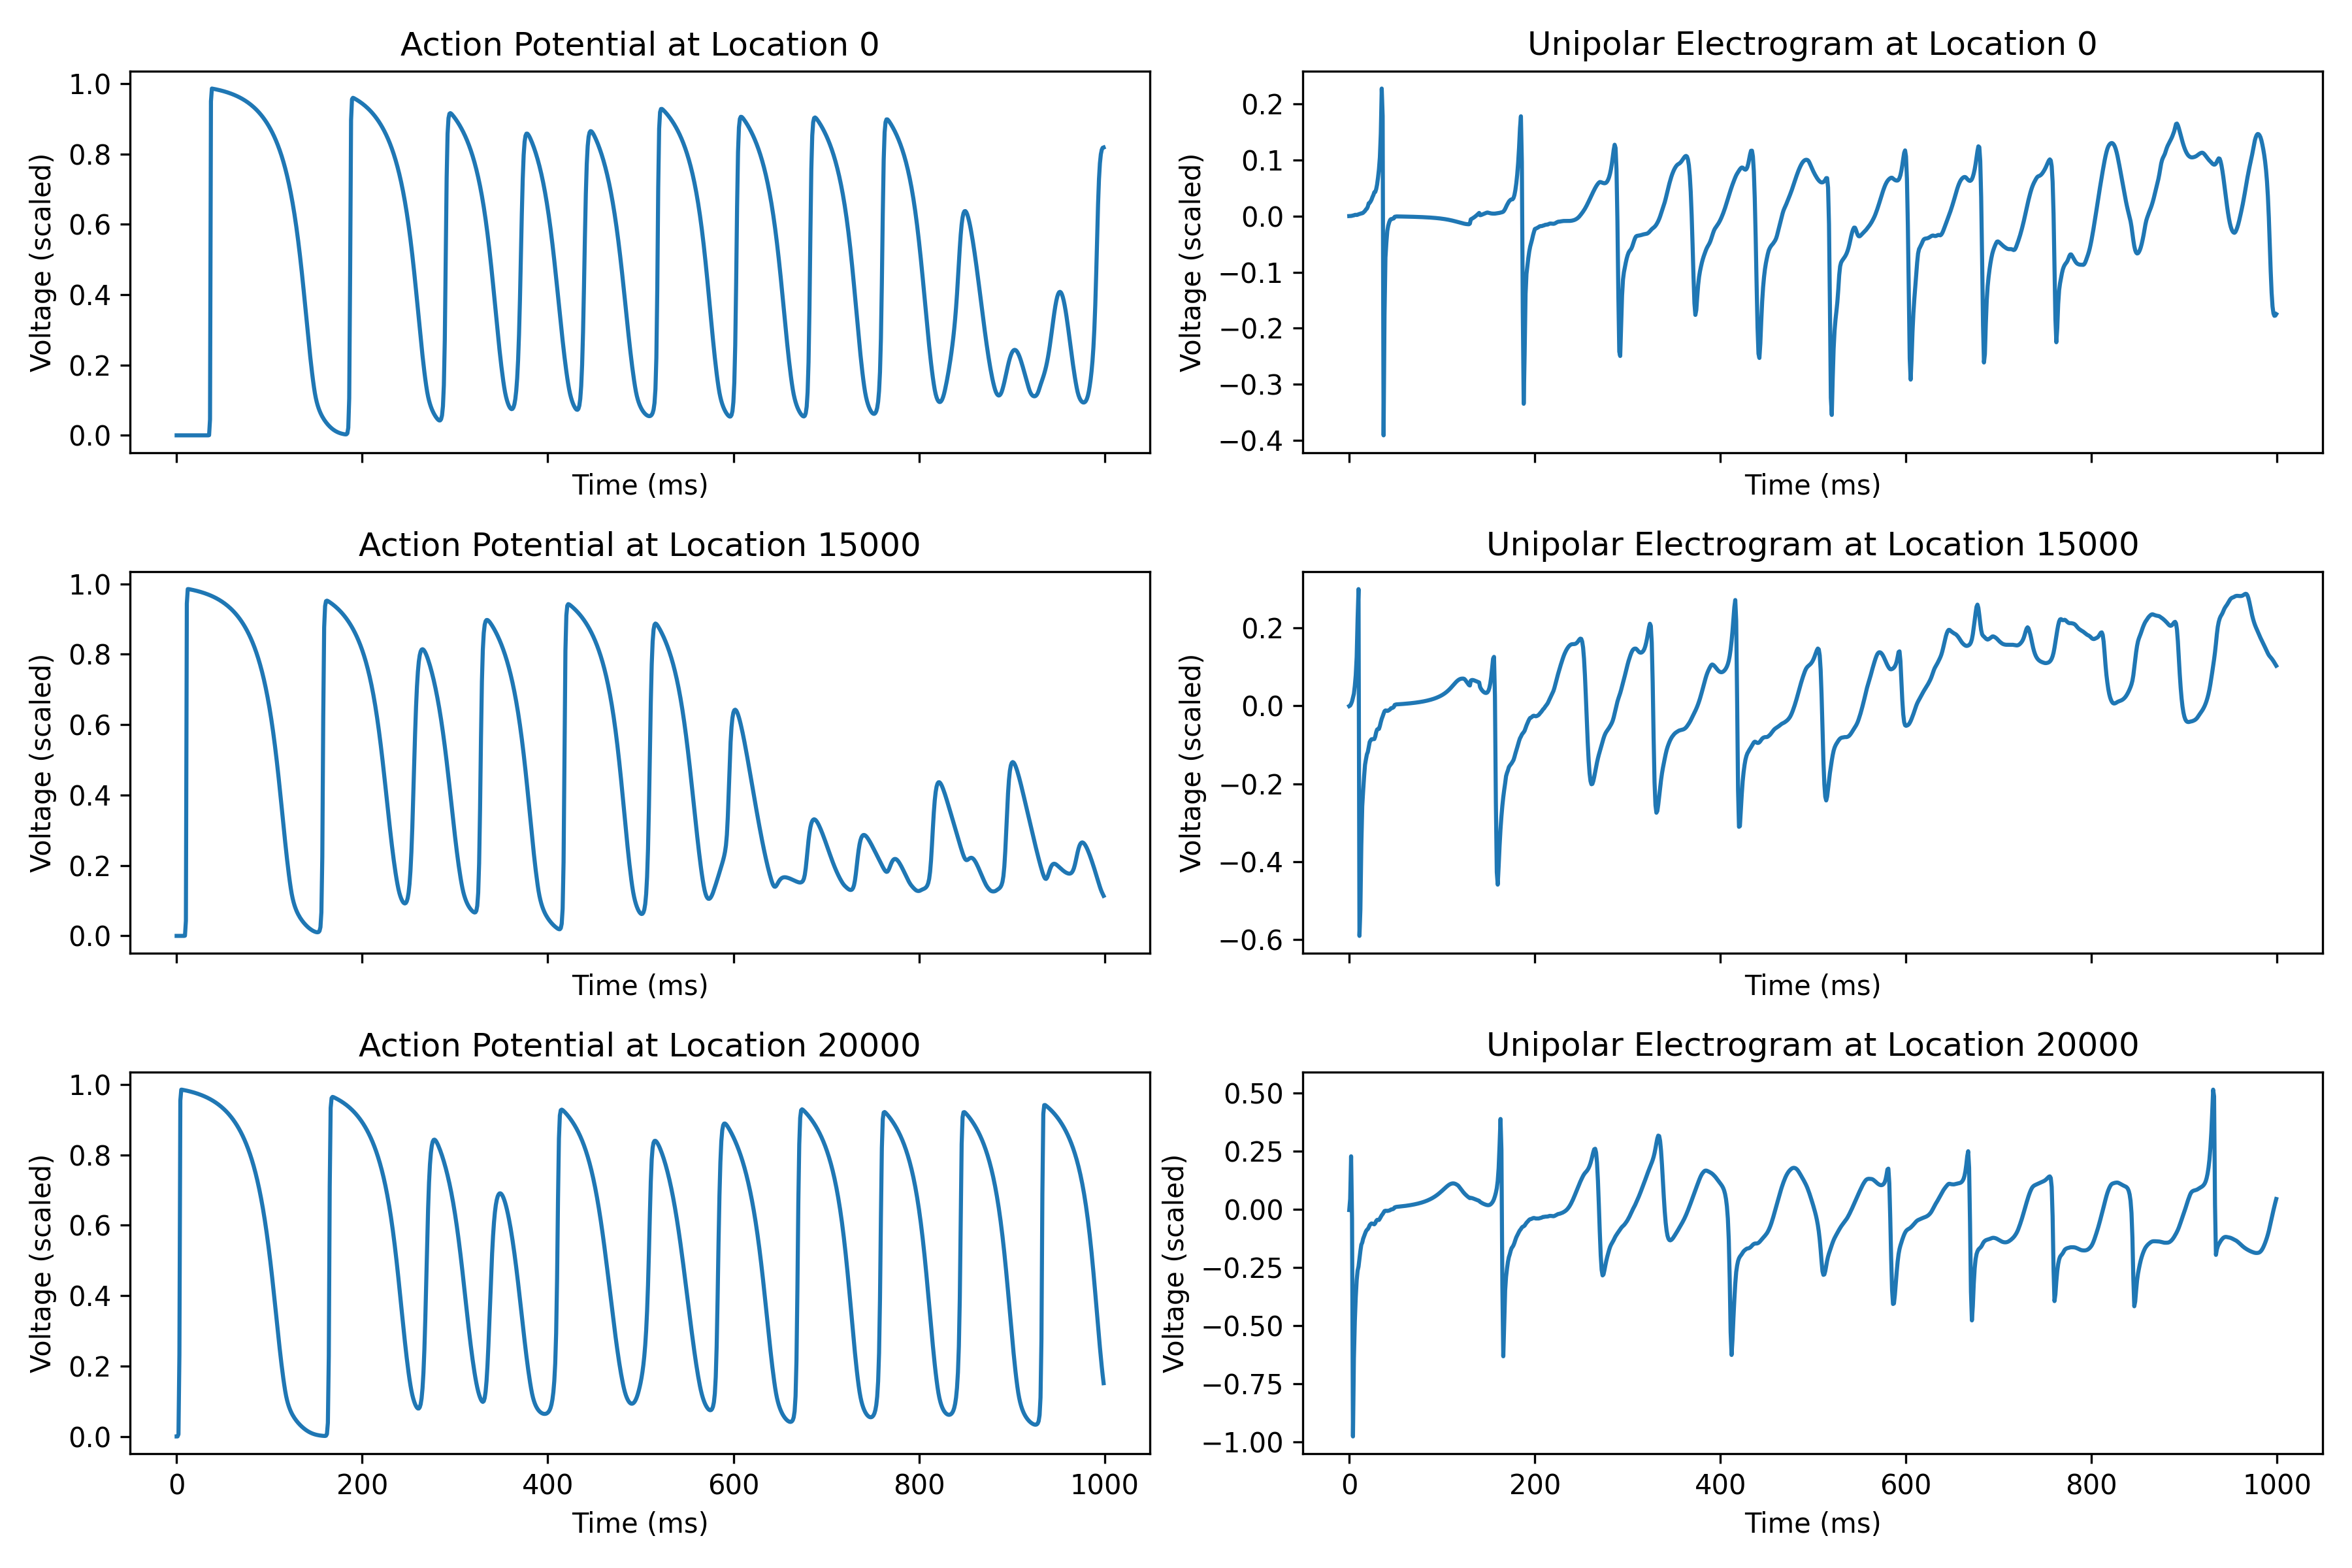
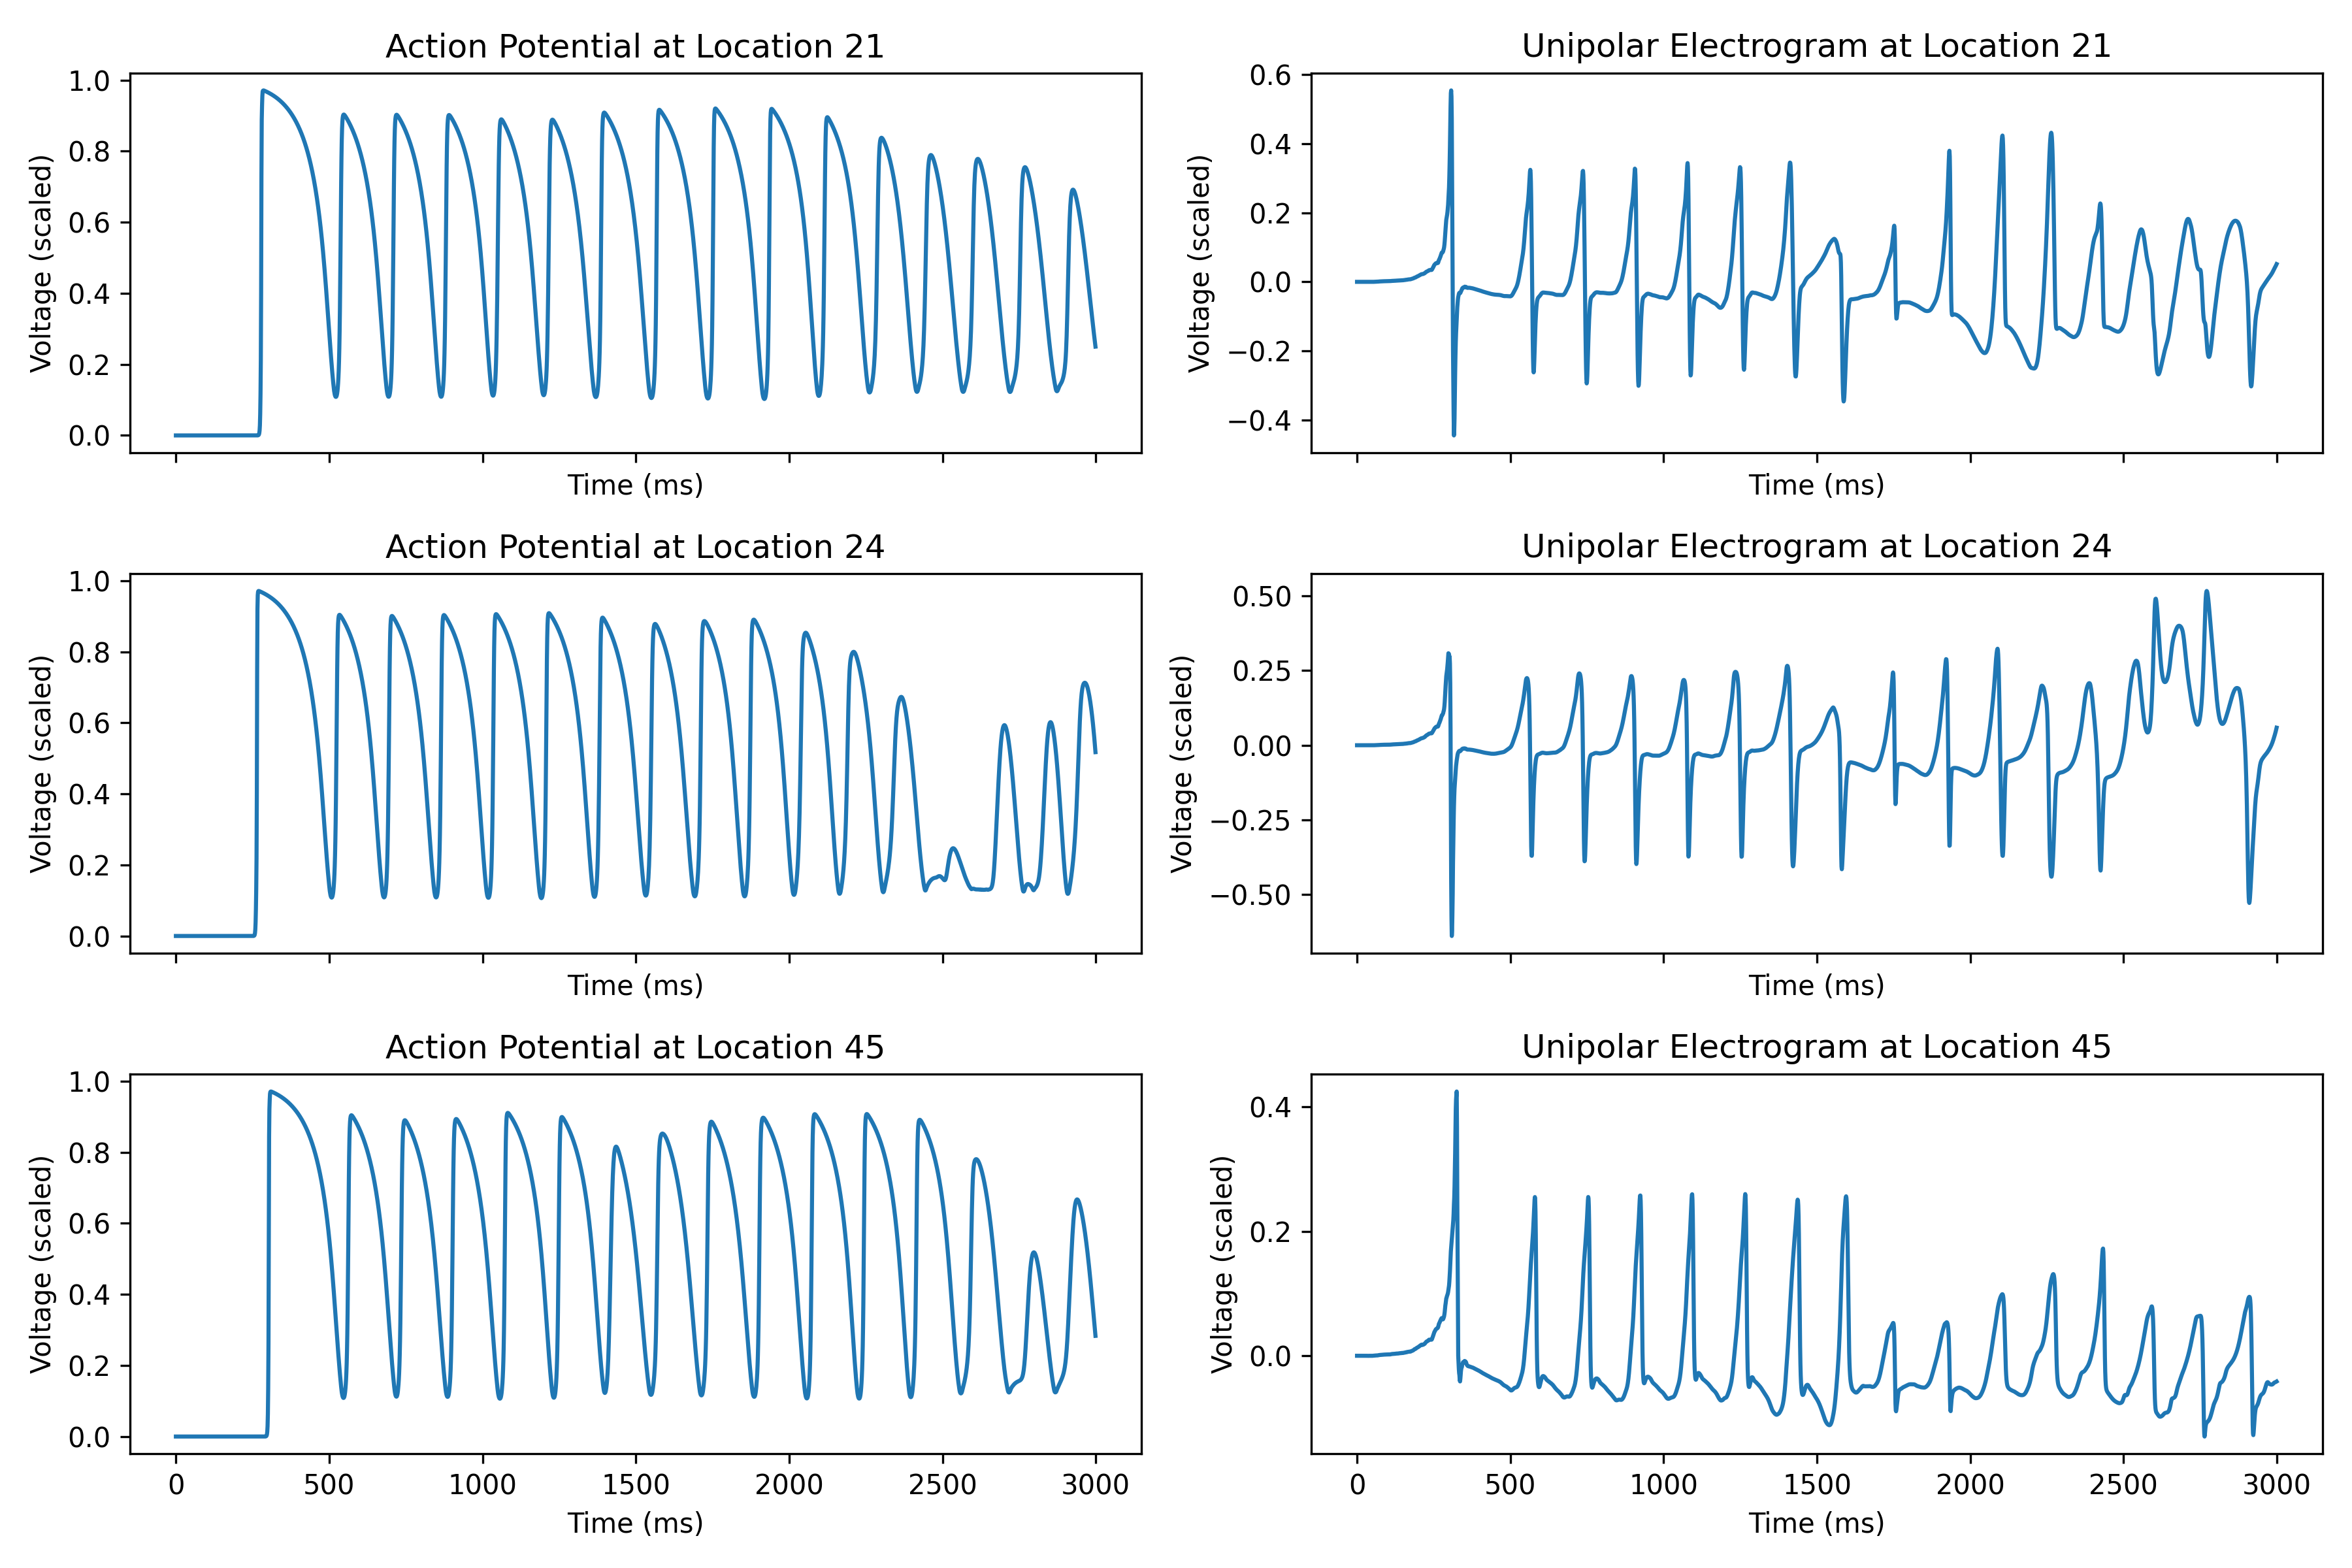
left atrium fibrillation simulation

diff --git a/configuration.py b/configuration.py
@@ -65,10 +65,10 @@ def assign_simulation_parameters(name_prefix, geometry_data, s1, s2, n_voxel):
         # 1: save action potential of all voxels
         # 0: only save action potential of electrode voxels
         'voxel_id_of_electrode': geometry_data['voxel_id_of_electrode'], # electrode locations for computing electrograms
-        't_final': 2000, # ms
+        't_final': 1000, # ms
         'dt': 0.5, # ms. 0.5 is good. if dt is too large, simulation will become numerically unstable
         'heart_model_flag': 0, # 0: Mitchell-Schaeffer, 1: Aliev-Panfilov
-        'arrhythmia_flag': 1,
+        'arrhythmia_flag': 0,
         # 0: focal
         # 1: rotor
         # 2: fibrillation (starts with a rotor, then becomes fibrillation)
@@ -85,22 +85,13 @@ def assign_simulation_parameters(name_prefix, geometry_data, s1, s2, n_voxel):
     # NOTE: changes of heart_model_parameters or pacing magnitude/duration will change the ap/h_min/max thresholds
     if simulation_parameters['arrhythmia_flag'] in (0, 4, 5, 6): # focal
         params = dict(pacing_start_time=10,  pacing_cycle_length=300,
-                      s1_t=0,   s1_s2_delta_t=0,
-                      ap_min=0, ap_max=0, h_min=0, h_max=0, s2_region_size_factor=0)
-    elif simulation_parameters['arrhythmia_flag'] == 1: # simple rotor
+                      s1_t=0,   s1_s2_delta_t=0)
+    elif simulation_parameters['arrhythmia_flag'] in (1, 2): # rotor or fibrillation
         params = dict(pacing_start_time=0,   pacing_cycle_length=0,
-                      s1_t=0,   s1_s2_delta_t=360,
-                      ap_min=0.00039, ap_max=0.0769,
-                      h_min=0.1629,      h_max=0.397)
-    elif simulation_parameters['arrhythmia_flag'] == 2: # fibrillation
-        params = dict(pacing_start_time=0,   pacing_cycle_length=0,
-                      s1_t=0,   s1_s2_delta_t=130,
-                      ap_min=0.05,  ap_max=0.25, h_min=0.025, h_max=0.120)
+                      s1_t=0,   s1_s2_delta_t=350)
     elif simulation_parameters['arrhythmia_flag'] == 3: # for debugging, manually assign s1 and s2 region
         params = dict(pacing_start_time=0,   pacing_cycle_length=0,
-                      s1_t=0,   s1_s2_delta_t=230,
-                      ap_min=0, ap_max=0, h_min=0, h_max=0)
-
+                      s1_t=0,   s1_s2_delta_t=230)
     arrhythmia_parameters = {
         'pacing_start_time':   params['pacing_start_time'],  # ms
         'pacing_cycle_length': params['pacing_cycle_length'], # ms
@@ -108,10 +99,6 @@ def assign_simulation_parameters(name_prefix, geometry_data, s1, s2, n_voxel):
         's2_pacing_voxel_id':  s2,                           # node id for s2 pacing
         's1_t':                params['s1_t'],                # ms. time of s1 pacing
         's1_s2_delta_t':       params['s1_s2_delta_t'],      # ms. time interval between s1 and s2
-        'ap_min':              params['ap_min'],              # a threshold value of action potential
-        'ap_max':              params['ap_max'],              # a threshold value of action potential
-        'h_min':               params['h_min'],               # a threshold value of action potential
-        'h_max':               params['h_max'],               # a threshold value of action potential
     }
 
     if simulation_parameters['arrhythmia_flag'] in (0, 4, 5, 6): # focal
@@ -121,7 +108,8 @@ def assign_simulation_parameters(name_prefix, geometry_data, s1, s2, n_voxel):
         ms = dict(tau_in=0.3,  tau_out=6, tau_open=120, tau_close=80, v_gate=0.13)
         ap = dict(k=8.0, a=0.15, epsilon_0=0.002, mu1=0.2, mu2=0.3)
     elif simulation_parameters['arrhythmia_flag'] == 2: # fibrillation
-        ms = dict(tau_in=0.08, tau_out=6, tau_open=80,  tau_close=30, v_gate=0.13)
+        # ms = dict(tau_in=0.08, tau_out=6, tau_open=80,  tau_close=30, v_gate=0.13)
+        ms = dict(tau_in=0.3,  tau_out=12, tau_open=30, tau_close=80, v_gate=0.13)
         ap = dict(k=8.0, a=0.15, epsilon_0=0.002, mu1=0.2, mu2=0.3)
     elif simulation_parameters['arrhythmia_flag'] == 3: # for debugging
         ms = dict(tau_in=0.3,  tau_out=6, tau_open=120, tau_close=80, v_gate=0.13)

diff --git a/simulation/pacing.py b/simulation/pacing.py
@@ -51,7 +51,7 @@ def find_out_s2_pacing_voxel_ids_for_rotor_arrhythmia(s1, geometry_data):
     candidate_s2 = largest_cluster[0] # s2 pacing voxel id
 
     # if the amount of voxels in the largest cluster is larger than a threshold, select a subset of connected voxels: started from the first voxel, then add neighboring voxels until reaching the threshold, according to breadth first search
-    n_threshold = 200
+    n_threshold = 300
     if len(largest_cluster) > n_threshold:
         visited = np.zeros(n_voxel, dtype=bool)
         s2_pacing_voxel_id = []
@@ -78,13 +78,9 @@ def assign_pacing_parameters(arrhythmia_parameters, arrhythmia_flag, n_voxel, ne
     s1_pacing_voxel_id = arrhythmia_parameters['s1_pacing_voxel_id'] 
     s1_t = arrhythmia_parameters['s1_t'] 
     s2_t = s1_t + arrhythmia_parameters['s1_s2_delta_t'] 
-    ap_min = arrhythmia_parameters['ap_min'] 
-    ap_max = arrhythmia_parameters['ap_max'] 
-    h_min = arrhythmia_parameters['h_min'] 
-    h_max = arrhythmia_parameters['h_max'] 
 
     s2_pacing_voxel_id = []
-    if arrhythmia_flag in (1, 3, 4, 5, 6):
+    if arrhythmia_flag in (1, 2, 3, 4, 5, 6):
         s2_pacing_voxel_id = arrhythmia_parameters['s2_pacing_voxel_id'] 
 
     do_flag = 0
@@ -110,9 +106,9 @@ def assign_pacing_parameters(arrhythmia_parameters, arrhythmia_flag, n_voxel, ne
         J_stim_magnitude = 1
         pacing_duration = 5 / simulation_parameters['time_scale']
 
-    return J_stim, s1_pacing_voxel_id, s2_pacing_voxel_id, s1_t, J_stim_magnitude, pacing_duration, s2_t, ap_min, ap_max, h_min, h_max
+    return J_stim, s1_pacing_voxel_id, s2_pacing_voxel_id, s1_t, J_stim_magnitude, pacing_duration, s2_t
 
-def apply_pacing(arrhythmia_parameters, simulation_parameters, arrhythmia_flag, model_time, J_stim, s1_pacing_voxel_id, s2_pacing_voxel_id, s1_t, J_stim_magnitude, pacing_duration, s2_t, ap_min, ap_max, h_min, h_max, sim_u_voxel, sim_h_voxel, neighbor_id_2d):
+def apply_pacing(arrhythmia_parameters, simulation_parameters, arrhythmia_flag, model_time, J_stim, s1_pacing_voxel_id, s2_pacing_voxel_id, s1_t, J_stim_magnitude, pacing_duration, s2_t, sim_u_voxel, sim_h_voxel, neighbor_id_2d):
     # s1 pacing
     if arrhythmia_flag in (0, 4): # focal arrhythmia, s1 pace according to cycle length setting
         t = model_time

diff --git a/simulation/simulation_gpu.py b/simulation/simulation_gpu.py
@@ -270,7 +270,7 @@ def compute(n_voxel, P_2d, geometry_data, simulation_parameters, arrhythmia_para
     arrhythmia_flag = simulation_parameters['arrhythmia_flag']
     
     # pacing parameters
-    J_stim, s1_pacing_voxel_id, s2_pacing_voxel_id, s1_t, J_stim_magnitude, pacing_duration, s2_t, ap_min, ap_max, h_min, h_max = assign_pacing_parameters(arrhythmia_parameters, arrhythmia_flag, n_voxel, neighbor_id_2d, simulation_parameters)
+    J_stim, s1_pacing_voxel_id, s2_pacing_voxel_id, s1_t, J_stim_magnitude, pacing_duration, s2_t = assign_pacing_parameters(arrhythmia_parameters, arrhythmia_flag, n_voxel, neighbor_id_2d, simulation_parameters)
     
     # set initial value at rest
     if simulation_parameters['heart_model_flag'] == 0:
@@ -345,7 +345,7 @@ def compute(n_voxel, P_2d, geometry_data, simulation_parameters, arrhythmia_para
         J_stim.fill(0.0)
         J_stim = apply_pacing(arrhythmia_parameters, simulation_parameters, arrhythmia_flag, model_time, 
                              J_stim, s1_pacing_voxel_id, s2_pacing_voxel_id, s1_t, J_stim_magnitude, 
-                             pacing_duration, s2_t, ap_min, ap_max, h_min, h_max, 
+                             pacing_duration, s2_t,
                              sim_u_voxel, sim_h_voxel, neighbor_id_2d)
         
         # Transfer J_stim to GPU

diff --git a/README.md b/README.md
@@ -1,7 +1,7 @@
 # Demonstration
-Patient left atrium fibrillation simulation:  
-<img src="example/left_atrium_fibrillation.gif" alt="Demo" width="400" />  
-<img src="example/left_atrium_fibrillation.png" alt="Demo" width="500" />  
+Patient left atrium rotor simulation:  
+<img src="example/left_atrium_rotor.gif" alt="Demo" width="400" />  
+<img src="example/left_atrium_rotor.png" alt="Demo" width="500" />  
 
 # Introduction
 - This is an electrophysiological heart simulator written in **Python**.  
@@ -42,16 +42,13 @@ Patient left atrium fibrillation simulation:
 - Jiyue He, Arkady Pertsov, Sanjay Dixit, Katie Walsh, Eric Toolan, Rahul Mangharam. (2021). Patient-specific heart model towards atrial fibrillation. Proceedings of the ACM/IEEE 12th International Conference on Cyber-Physical Systems, New York, NY, USA, pp. 33-43. doi: 10.1145/3450267.3450532
 
 # More demonstrations
-Patient left atrium rotor simulation:  
-<img src="example/left_atrium_rotor.gif" alt="Demo" width="400" />  
-<img src="example/left_atrium_rotor.png" alt="Demo" width="500" />  
-
 Patient left atrium focal sources simulation:  
 <img src="example/left_atrium_focal.gif" alt="Demo" width="400" />  
 <img src="example/left_atrium_focal.png" alt="Demo" width="500" />  
 
-Slab fibrillation simulation:  
-<img src="example/slab_fibrillation.gif" alt="Demo" width="400" />  
+Patient left atrium fibrillation simulation:  
+<img src="example/left_atrium_fibrillation.gif" alt="Demo" width="400" />  
+<img src="example/left_atrium_fibrillation.png" alt="Demo" width="500" />  
 
 2D rotor simulation:  
 <img src="example/2d_rotor.gif" alt="Demo" width="250" />  